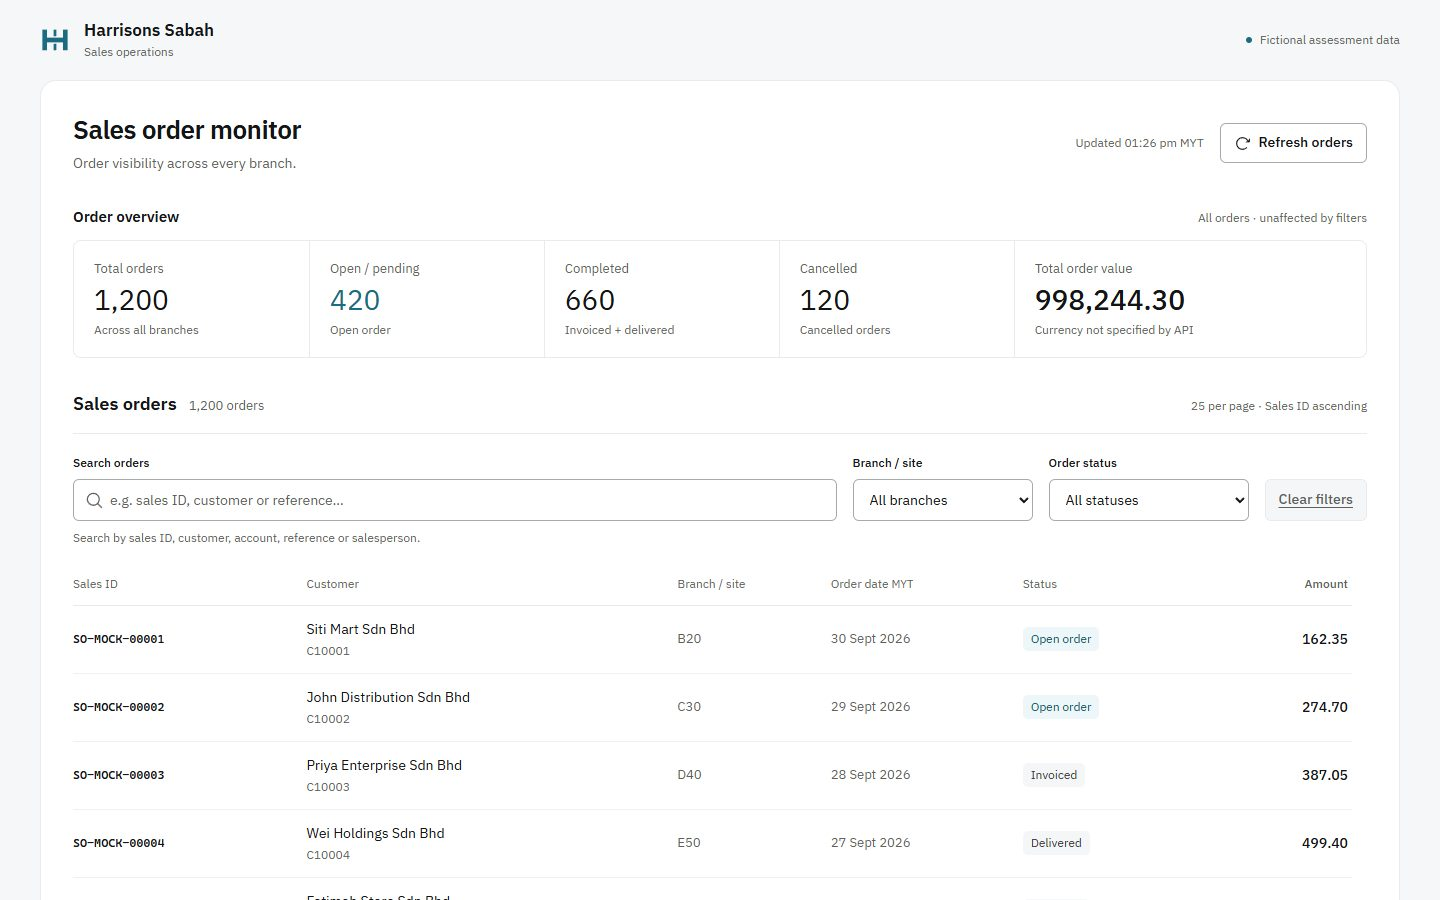
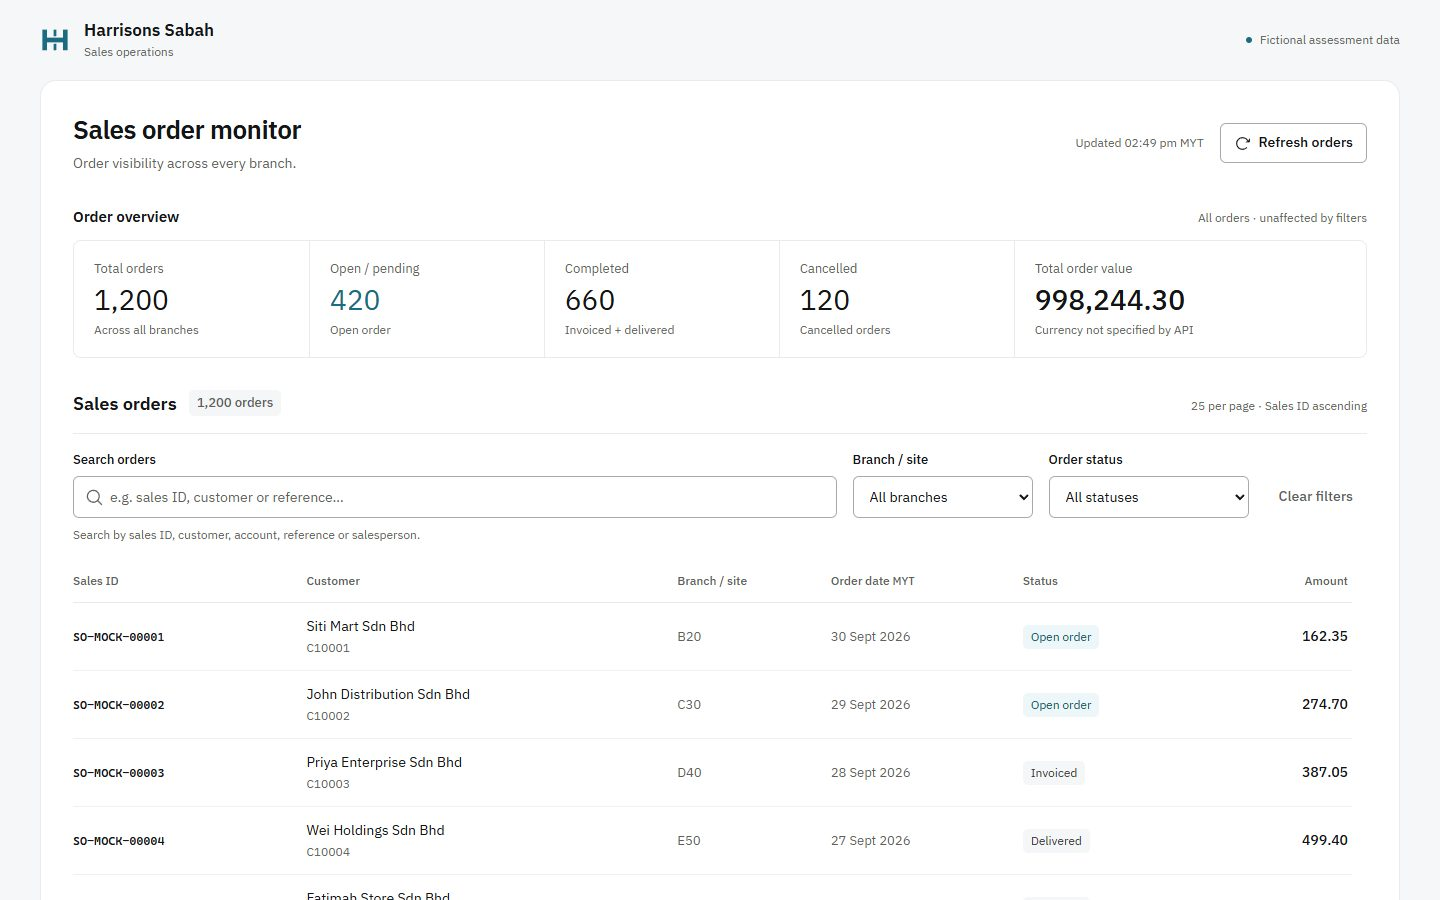
Polish dashboard feedback and mobile readability

diff --git a/src/styles.css b/src/styles.css
@@ -19,6 +19,9 @@
   --accent-pale: #edf6f8;
   --danger: #912e34;
   --danger-bg: #fff5f4;
+  --row-hover: #f5f8f9;
+  --button-hover: #353736;
+  --feedback-duration: 160ms;
   --radius: 8px;
   --gap: 24px;
 }
@@ -53,14 +56,20 @@ h1 { font-size: 26px; font-weight: 600; line-height: 1.25; letter-spacing: -.5px
 .page-heading p { color: var(--muted); margin-top: 7px; }
 .refresh-group { display: flex; align-items: center; gap: 16px; }
 .updated { color: var(--muted); font-size: 12px; font-variant-numeric: tabular-nums; }
-.button { display: inline-flex; align-items: center; justify-content: center; gap: 8px; min-height: 40px; padding: 8px 13px; border: 1px solid transparent; border-radius: 6px; font-weight: 500; line-height: 1.4; white-space: nowrap; transition: background-color 130ms ease, border-color 130ms ease; }
+.button { display: inline-flex; align-items: center; justify-content: center; gap: 8px; min-height: 40px; padding: 8px 13px; border: 1px solid transparent; border-radius: 6px; font-weight: 500; line-height: 1.4; white-space: nowrap; transition: background-color var(--feedback-duration) ease, border-color var(--feedback-duration) ease, color var(--feedback-duration) ease; }
 .secondary { background: var(--surface); border-color: var(--control); color: var(--text); }
-.secondary:hover:enabled { background: var(--raised); border-color: var(--muted); }
 .primary { background: var(--text); color: var(--surface); }
-.primary:hover:enabled { background: var(--muted); }
 .clear { color: var(--muted); background: transparent; text-decoration: underline; text-underline-offset: 3px; }
-.clear:hover:enabled { color: var(--text); background: var(--raised); }
-.button:active:enabled { background: var(--active); color: var(--text); }
+.clear:disabled { background: transparent; border-color: transparent; text-decoration: none; }
+.button:focus-visible:enabled { border-color: var(--accent); }
+@media (hover: hover) and (pointer: fine) {
+  .secondary:hover:enabled { background: var(--raised); border-color: var(--muted); }
+  .primary:hover:enabled { background: var(--button-hover); }
+  .clear:hover:enabled { color: var(--text); background: var(--raised); }
+  tbody tr:hover { background-color: var(--row-hover); }
+}
+.button:active:enabled { background: var(--active); color: var(--text); transition-duration: 0s; }
+.primary:active:enabled { background: var(--text); color: var(--surface); }
 .section-heading { display: flex; justify-content: space-between; align-items: baseline; flex-wrap: wrap; gap: 8px 16px; }
 .section-heading h2 { font-size: 15px; font-weight: 600; }
 .section-heading > span { color: var(--muted); font-size: 12px; }
@@ -75,36 +84,39 @@ h1 { font-size: 26px; font-weight: 600; line-height: 1.25; letter-spacing: -.5px
 .metric-note { display: block; font-size: 12px; color: var(--muted); }
 .unavailable { color: var(--muted); font-size: 20px; }
 .orders-section { margin-top: 32px; }
-.orders-heading { border-bottom: 1px solid var(--border); padding-bottom: 16px; margin-bottom: 20px; }
-.orders-title { display: flex; align-items: baseline; gap: 12px; }
+.orders-heading { border-bottom: 1px solid var(--border); padding-bottom: 16px; margin-bottom: 16px; }
+.orders-title { display: flex; align-items: center; flex-wrap: wrap; gap: 8px 12px; min-width: 0; }
 .orders-title h2 { font-size: 18px; }
-.result-count { color: var(--muted); font-size: 13px; font-variant-numeric: tabular-nums; }
+.result-count { display: inline-flex; align-items: center; min-height: 26px; padding: 3px 8px; border-radius: 5px; background: var(--raised); color: var(--muted); font-size: 13px; font-weight: 500; font-variant-numeric: tabular-nums; }
 .filters { display: grid; grid-template-columns: minmax(220px, 1fr) 180px 200px auto; gap: 8px 16px; align-items: end; }
 .field { display: flex; flex-direction: column; gap: 7px; min-width: 0; }
-label { font-size: 12px; font-weight: 500; }
+label { font-size: 13px; font-weight: 500; }
 input, select { height: 42px; border: 1px solid var(--control); border-radius: 6px; }
 select { padding: 0 30px 0 12px; width: 100%; }
 select:disabled { color: var(--muted); background: var(--raised); }
 .search-input { position: relative; }
 .search-input > svg { position: absolute; top: 12px; left: 12px; color: var(--muted); pointer-events: none; }
+.search-input:focus-within > svg { color: var(--accent); }
 .search-input input { width: 100%; padding: 0 36px; }
 input::placeholder { color: var(--muted); opacity: 1; }
 .filters .clear { height: 42px; }
 .search-hint { grid-column: 1 / -1; color: var(--muted); font-size: 12px; margin-bottom: 8px; }
 .active-filters { color: var(--accent); font-size: 12px; margin: 8px 0 12px; overflow-wrap: anywhere; }
 .order-results { margin-top: 8px; }
-.table-scroll { overflow: auto; max-height: 560px; scrollbar-gutter: stable; border-bottom: 1px solid var(--border); }
+.table-scroll { overflow: auto; max-height: 560px; scrollbar-gutter: stable; scroll-padding-top: 48px; border-bottom: 1px solid var(--border); }
 table { width: 100%; border-collapse: separate; border-spacing: 0; table-layout: fixed; font-variant-numeric: tabular-nums; }
 .col-id { width: 17%; }.col-customer { width: 29%; }.col-branch { width: 12%; }.col-date { width: 15%; }.col-status { width: 15%; }.col-amount { width: 12%; }
 thead { position: sticky; top: 0; z-index: 1; background: var(--surface); }
 th, td { padding: 12px 16px; text-align: left; vertical-align: middle; overflow-wrap: anywhere; }
 th:first-child, td:first-child { padding-left: 0; }
 th:last-child, td:last-child { padding-right: 4px; }
-thead th { color: var(--muted); font-size: 12px; font-weight: 400; padding-top: 12px; padding-bottom: 12px; border-bottom: 1px solid var(--border); }
+thead th { color: var(--muted); font-size: 12px; font-weight: 500; padding-top: 12px; padding-bottom: 12px; border-bottom: 1px solid var(--border); }
 .th-note { font-size: 11px; }
 tbody th, tbody td { border-bottom: 1px solid var(--rule); height: 68px; }
 tbody tr:last-child > * { border-bottom: 0; }
+tbody tr { transition: background-color var(--feedback-duration) ease; }
 .order-id { font-family: ui-monospace, 'Cascadia Code', Consolas, monospace; font-size: 12px; font-weight: 500; white-space: nowrap; }
+.customer { min-width: 0; }
 .customer > span { display: block; overflow-wrap: anywhere; }
 .customer small { display: block; font-size: 12px; color: var(--muted); margin-top: 2px; }
 .branch, .order-date { color: var(--muted); font-size: 13px; }
@@ -129,9 +141,10 @@ tbody tr:last-child > * { border-bottom: 0; }
 .error-notice p { color: var(--muted); font-size: 13px; margin-top: 4px; overflow-wrap: anywhere; }
 .data-notice { font-size: 13px; color: var(--danger); margin: 12px 0; }
 .skeleton { display: block; background: var(--rule); border-radius: 4px; height: 14px; width: 100%; }
-.metric-skeleton { height: 28px; margin: 7px 0; width: 72%; }
+.metric-skeleton { height: 28px; margin: 7px 0; width: 72%; min-width: 3ch; }
 .loading-orders { padding-top: 8px; }
-.loading-orders > p { color: var(--muted); font-size: 13px; margin-bottom: 16px; }
+.loading-orders > p { display: flex; align-items: center; gap: 8px; color: var(--muted); font-size: 13px; margin-bottom: 16px; }
+.loading-orders > p::before { content: ''; width: 6px; height: 6px; flex: none; border-radius: 50%; background: var(--accent); }
 .loading-row { height: 68px; display: grid; grid-template-columns: 1fr 2fr 1fr; align-items: center; gap: 64px; border-bottom: 1px solid var(--rule); padding: 0 16px; }
 .workspace-footer { display: flex; align-items: center; justify-content: space-between; flex-wrap: wrap; gap: 8px 24px; margin-top: 32px; padding-top: 20px; border-top: 1px solid var(--border); color: var(--muted); font-size: 12px; }
 
@@ -173,14 +186,14 @@ tbody tr:last-child > * { border-bottom: 0; }
   .metric-note { display: none; }
   .metric-value { gap: 12px; }
   .metric-value dd { font-size: 24px; }
-  .orders-section { margin-top: 24px; }
+  .orders-section { margin-top: 20px; }
   .orders-heading { margin-bottom: 16px; padding-bottom: 12px; }
   .list-setting { display: none; }
-  .filters { grid-template-columns: minmax(0, 1fr) minmax(0, 1fr); gap: 12px; }
+  .filters { grid-template-columns: minmax(0, 1fr) minmax(0, 1fr); gap: 10px 12px; }
   .search-field { grid-column: 1 / -1; }
   input, select { height: 44px; font-size: 16px; }
   .search-hint { display: none; }
-  .filters .clear { grid-row: 3; grid-column: 1 / -1; height: 44px; justify-self: start; padding-left: 0; }
+  .filters .clear { grid-row: 3; grid-column: 1 / -1; height: 44px; justify-self: end; }
   .button { min-height: 44px; }
   .table-scroll { max-height: none; overflow: visible; border-bottom: 0; }
   table, tbody { display: block; }
@@ -191,8 +204,8 @@ tbody tr:last-child > * { border-bottom: 0; }
   .order-id { grid-column: 1; grid-row: 1; font-size: 12px; align-self: center; }
   td.amount { grid-column: 2; grid-row: 1; font-size: 16px; align-self: center; }
   .customer { grid-column: 1 / -1; grid-row: 2; }
-  .customer small { display: inline; margin-left: 8px; font-size: 11px; }
-  .customer > span { display: inline; }
+  .customer small { display: block; margin: 3px 0 0; font-size: 12px; }
+  .customer > span { display: block; }
   .branch { grid-column: 1; grid-row: 3; }
   .branch::before { content: 'Branch '; }
   .order-date { grid-column: 1; grid-row: 4; }

diff --git a/docs/UI_POLISH.md b/docs/UI_POLISH.md
@@ -1,0 +1,57 @@
+# UI refinement — 21 October 2026
+
+This is a CSS-only refinement of the completed assessment app. The original delivery record remains in `WORK_LOG.md`; this report describes additional agent work, not applicant manual review.
+
+## Recovery point and scope
+
+- Recorded start: **14:43:48 MYT** (UTC+08:00).
+- Clean starting worktree and original main: `b6aabb61dc616f69785831b5a7ced79b806d1978`.
+- Dedicated branch: `ui/polish-readability-feedback`.
+- No applicable ancestor/project AGENTS.md found. Existing project instructions, components, CSS, scripts and browser configuration were inspected before editing.
+- Read the installed React Best Practices, Web Design Guidelines and Taste app-screen guidance; used UI Animation guidance for restrained CSS feedback. No skill was reinstalled or modified, and no dependency/configuration upgrade was made.
+- Retained Taste's **Framed sheet** direction, seed **514016143**, with no redraw, new navigation or chart. The screen still answers which orders need attention across branches.
+
+## Changes and reasons
+
+- A quiet neutral order-row hover helps track a row across columns; it does not move the row or imply a clickable action. Hover paint is limited to devices with a fine pointer and hover support.
+- Buttons share explicit **160ms** background, border and text-colour transitions. Press feedback and keyboard outlines remain immediate. Primary buttons retain readable contrast when pressed; disabled clear-filters controls no longer resemble active filled buttons.
+- Result counts have a small neutral background, filter labels are slightly larger, and nearby spacing is more consistent.
+- The table header was already sticky and remains sticky within the existing scroll container. Slightly stronger heading text and scroll padding help orientation.
+- On phones, customer name and account use separate lines, clear filters aligns with the right edge, and small filter gaps are reduced. Amounts remain right aligned and unbroken.
+- Loading keeps static skeletons and readable text, with a small stationary status dot. Screenshot inspection revealed zero-width metric placeholders on phones; a minimum placeholder width fixes that purely in CSS. There are no looping pulses, financial counter animations or artificial request delays in the app.
+- The existing reduced-motion override disables every new transition.
+
+Only `src/styles.css` changes production behaviour. API/types/query/request lifecycle, component semantics, accessible labels, test selectors, existing tests, dependency versions and the lockfile are unchanged. The supplied GET-only API, assessment header, metadata options, global summary/status mapping, currency disclaimer, 300ms search debounce and stale-response guards are preserved.
+
+## Checks actually executed
+
+| Check | Result |
+| --- | --- |
+| Before-edit Chrome browser suite | **9 passed**, 18.3 seconds. No baseline browser failures. |
+| `npm.cmd run typecheck` | Passed. |
+| `npm.cmd run lint` | Passed. |
+| `npm.cmd test` | **32 passed** across 2 files. |
+| `npm.cmd run build` | Passed; rebuilt after the final CSS adjustment. |
+| After-edit browser suite | **9 passed**, **18.4 seconds** on the final CSS; an earlier after-edit run also passed in 20.4 seconds. |
+| Layout screenshots before/after | Captured and viewed at **1440, 768, 390 and 375px**. No page horizontal overflow or new page errors in the layout probe. |
+| Additional Playwright feedback probes | Passed: row hover, immediate press, unchanged row/button geometry, keyboard skip/main/refresh focus, visible 3px outline, sticky header and keyboard PageDown scrolling. |
+| Reduced-motion probe | Passed: row and button transition duration is zero; loading text and skeletons remain visible. |
+| Phone content checks | Passed at 390/375px with the longest real name in the first 100 API rows (27 characters), then a **111-character, test-only DOM text stress probe**. No saved order data or production response was substituted. Amount and account remain visible. |
+| Touch emulation | Passed: a 375px coarse-pointer/touch context does not retain the row hover highlight after tapping. This is browser emulation, not a real-device test. |
+| Loading probe | Passed while holding a forwarded real API response; no old rows shown and all metric placeholders have positive width. The hold is test-only. |
+| Taste browser inspector | **0 failures, 0 warnings**, 1440/768/390px. Screenshots were also visually inspected. |
+| Taste source lint | 0 failures; the existing monospace-ID warning remains, permitted for literal SalesId values by app-screen guidance. |
+
+The existing browser suite covers initial live rows/global statistics, Siti + B20 + Open order, independent filters, clear filters, next/previous and last-page boundaries, empty results, simulated list/metadata failures and retry, slow-response races, keyboard access and responsive layouts. Tests were not weakened, skipped or deleted.
+
+The first additional keyboard probe expected initial Tab order after a preceding mouse test had intentionally focused Refresh. That probe failed because of its setup; it was corrected to start keyboard navigation in a fresh document, then passed. The existing keyboard regression test passed throughout. During CSS review, pressed-state rules were ordered after hover rules to prevent hover from masking press feedback; the final probe verified the actual pressed colour and zero-duration feedback.
+
+Web Interface Guidelines review: `src/styles.css` retains explicit focus outlines, neutral readable status/amount text, explicit transition properties, reduced motion and long-content wrapping. The header stays opaque while sticky. A neutral hover fill follows this refinement's explicit request; no functional or accessibility-label changes were introduced.
+
+## Publication and time
+
+The verified feature branch will be fast-forwarded into main and pushed without a force push. Deployment targets only the existing `harrisons-sales-order-monitor` Vercel project and retains its public URL. Final production checks, source commit and elapsed time are recorded below after execution.
+
+The prior recorded work was **26 minutes 2 seconds**. Cumulative time is that recorded duration plus this refinement's actual elapsed time; intervening wall-clock time and any unreported applicant work are not invented or counted as known work.
+
+Remaining limits: Chrome browser automation and touch emulation do not replace real-phone, Safari/Firefox/Edge or screen-reader testing. Existing optional filter URL persistence and order details remain deferred. No recruitment form was submitted.

diff --git a/docs/WORK_LOG.md b/docs/WORK_LOG.md
@@ -20,3 +20,10 @@
 - Final change after the deployed-browser checks is documentation only. Public GitHub and Vercel URLs are included in README and SUBMISSION.
 
 - Final documentation checkpoint: 2026-10-21 13:42:47 MYT. Elapsed from the recorded start: 25 minutes 58 seconds, including setup, implementation, checks, documentation, source publication and deployment. Final documentation commit/push follows this timestamp; total delivery is approximately 26 minutes, within the 180-minute limit.
+
+## UI refinement — 21 October 2026 (additional work)
+
+- Recorded start: 14:43:48 MYT. Clean baseline/recovery commit: b6aabb61dc616f69785831b5a7ced79b806d1978. Created ui/polish-readability-feedback before editing.
+- CSS-only changes: restrained row/button feedback, result/filter hierarchy, mobile customer/account spacing and visible mobile loading placeholders. No API, query, lifecycle, component-label, test or dependency changes.
+- Baseline browser suite: 9 passed in 18.3s. Type checking, ESLint, 32 unit tests and production build passed. After-edit browser suite initially passed 9 tests in 20.4s. Additional feedback/scroll/focus/reduced-motion/touch/long-text probes passed; the final suite/deployment/time results are in UI_POLISH.md.
+- Original recorded work duration: 26m 02s. Only this refinement's measured duration is added; unreported applicant work is unknown. This section appends to the original record.

diff --git a/docs/VERIFICATION.md b/docs/VERIFICATION.md
@@ -70,3 +70,7 @@ Reviewed App, Dashboard, OrderTable, Feedback and styles against the current [Ve
 ## Not verified
 
 Applicant's personal review; actual phones; Safari, Firefox or Edge execution; screen-reader user testing; production API SLA, billing or security audit. None is represented as completed.
+
+## Subsequent UI refinement — 21 October 2026
+
+The original delivery results and bundle hash above are historical. The CSS-only refinement has its own recovery point, before/after checks, production verification and time record in [UI_POLISH.md](UI_POLISH.md). Existing automated tests and the API contract are preserved; no applicant manual review is claimed.

diff --git a/README.md b/README.md
@@ -129,4 +129,6 @@ Time tracking and setup notes: [docs/WORK_LOG.md](docs/WORK_LOG.md).
 
 Applicant checklist, Chinese code/data-flow explanation and five implementation-specific interview questions: [docs/HANDOVER.md](docs/HANDOVER.md).
 
+The subsequent CSS-only UI refinement improves row/button feedback, filter hierarchy and mobile readability. Its separate recovery point, checks, deployment and additional time are recorded in [docs/UI_POLISH.md](docs/UI_POLISH.md); the original assessment log is preserved.
+
 ![Desktop sales order dashboard](docs/screenshots/desktop.jpg)
